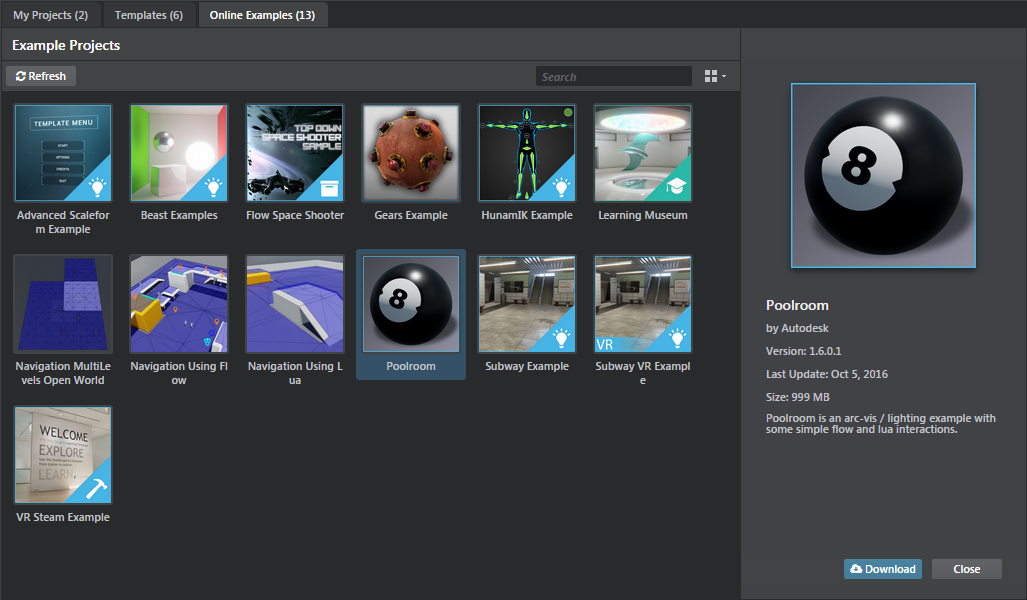
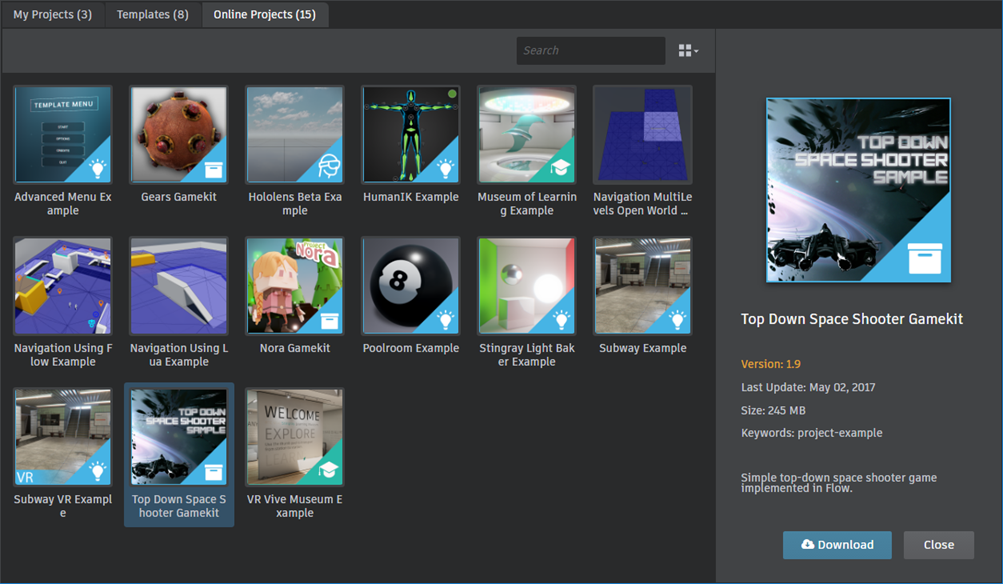
Add project manager updates

diff --git a/source/interactive_help/getting_started/open_existing_project.md b/source/interactive_help/getting_started/open_existing_project.md
@@ -1,10 +1,10 @@
 # Open an existing project
 
-The {{ProductName}} editor keeps track of the projects you create and work on. You can easily re-open any project when you launch the editor, or by opening the **Project Manager** from the **File** menu.
+The {{ProductName}} editor keeps track of the projects you create and work on. You can easily re-open any project when you launch the editor or by opening the **Project Manager** from the **File** menu.
 
 You can also double-click a project file (`.stingray_project`) to open the project in the interactive editor, provided no other projects are open at the moment.
 
-Sometimes, however, you may want to open an existing project that somebody else has created, but that doesn't yet show up in your **Project Manager**. For example, this will happen if you want to open a sample project that you download from [the Gamedev portal](http://www.autodesk.com/stingray-online-projects). See also ~{ Download assets and example projects }~.
+Sometimes, however, you may want to open an existing project that somebody else has created, but that doesn't yet show up in your **Project Manager** like a Revit Live scene or zipped interactive projects.
 
 **To open an existing project for the first time:**
 
@@ -14,13 +14,13 @@ Sometimes, however, you may want to open an existing project that somebody else 
 
 	![Add Existing](../images/project_manager_add_existing.png)
 
-3.	Click **Add Existing** and browse to the location of your project on your local computer. Select the project's *.stingray_project* file and click **Open**.
+3.	Click **Add Existing** and browse to the location of your project on your local computer. Select either the interactive project (  *.stingray_project* or *.zip*) or a Live scene (*.lvsc*) file and click **Open**.
 
 	This adds the selected project to the *Projects* area of the **My Projects** tab.
 
-{{#if Stingray}}
+	{{#if Stingray}}
 	>	**Note:** If the project you want to open was created with a version of Stingray before 1.7, it might not have a *.stingray_project* file. If so, change the dialog's filter to look for `All Files (*.*)` instead of `Stingray Projects (*.stingray_project)`, and select your project's *settings.ini* file.
-{{/if}}
+	{{/if}}
 
 4.	(Optional) If your project was created using an earlier version of {{ProductName}}, do one of the following in the dialog box that appears:
 
@@ -35,3 +35,10 @@ Sometimes, however, you may want to open an existing project that somebody else 
 	-	Click **No**.
 
 		The editor does not migrate your project, and does not open it.
+
+You also have the option to **Remove** or **Delete** a project. Removing a project removes it from the *Projects* area of the **My Projects** tab but leaves the project data in the disk, while deleting a project removes the entire project and its data from the disk.
+
+---
+Related topics:
+- ~{ Download assets and example projects }~
+---

diff --git a/source/interactive_help/getting_started/downloads_creativeMkt.md b/source/interactive_help/getting_started/downloads_creativeMkt.md
@@ -2,7 +2,7 @@
 
 The template projects available in the ~{ Project Manager }~ provide good starting points for creating your own interactive projects. However, in order to make them as easy as possible to understand and apply, they are intentionally kept relatively lightweight and simplistic. Therefore they only scratch the surface of what is possible with {{ProductName}}.
 
-Sample projects that illustrate the potential of specific elements of {{ProductName}} and example projects that show more complex usage of components like Scaleform Studio, HumanIK and Gameware Navigation are available as online examples. Download these projects using the **Online Examples** tab in the **Project Manager**.
+Sample projects that illustrate the potential of specific elements of {{ProductName}} and example projects that show more complex usage of components like Scaleform Studio, HumanIK and Gameware Navigation are available as online examples. Download these projects using the **Online Projects** tab in the **Project Manager**.
 
 ![](../images/online_examples.png)
 

diff --git a/source/interactive_help/getting_started/set_up_project/project_manager.md b/source/interactive_help/getting_started/set_up_project/project_manager.md
@@ -6,6 +6,8 @@ You can use this window to create and manage your projects, and to download onli
 
 The first task you'll complete in {{ProductName}} is to create a project that organizes all the resources that make up your interactive application. Typically, you'll start each new project from one of the template projects available in the **Project Manager**, or from another existing project. This ensures you always have at least the minimal set of required resources in place when you get started.
 
+You can also customize the **Project Manager** to change the labels or customize the project browser view when there are no projects, hide the search field and so on. To customize, modify the *.stingray_plugin* file of the project manager found under the `editor/plugins` folder in your {{ProductName}} installation. See ~{ Example Plug-ins }~ to learn more about extending the interactive plug-ins.
+
 ![Project Manager Overview](../../images/comp_project_manager.png)
 
 ---
